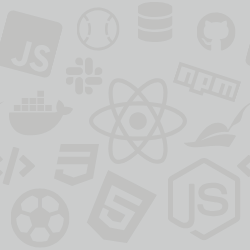
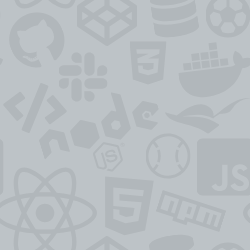
tweaked f-a background images used http://patternico.com/#s0LmY4jYrR9YVhk7

diff --git a/app/containers/HomePage/styles.css b/app/containers/HomePage/styles.css
@@ -7,20 +7,7 @@
 .introductionCard {
   padding: 30px 0;
   color: primaryText;
-  display: block;
-  position: relative;
-  
-  &:after {
-    background: url('./background.png') primary repeat;
-    opacity: 0.85;  
-    content: "";
-    top: 0;
-    left: 0;
-    bottom: 0;
-    right: 0;
-    position: absolute;
-    z-index: -1;   
-  }
+  background: url('./background.png') primary repeat;  
 }
 
 .wrapper {

diff --git a/app/containers/ResumePage/styles.css b/app/containers/ResumePage/styles.css
@@ -3,11 +3,11 @@
 @value secondary from colors;
 @value secondaryText from colors;
 @value accent from colors;
-@value primary from colors;
+@value lightmatte from colors;
 
 .toolbar {
   padding: 30px 0;
-  background: url('./background.png') primary repeat;
+  background: url('./background.png') lightmatte repeat;
 }
 
 .toolbar p {
